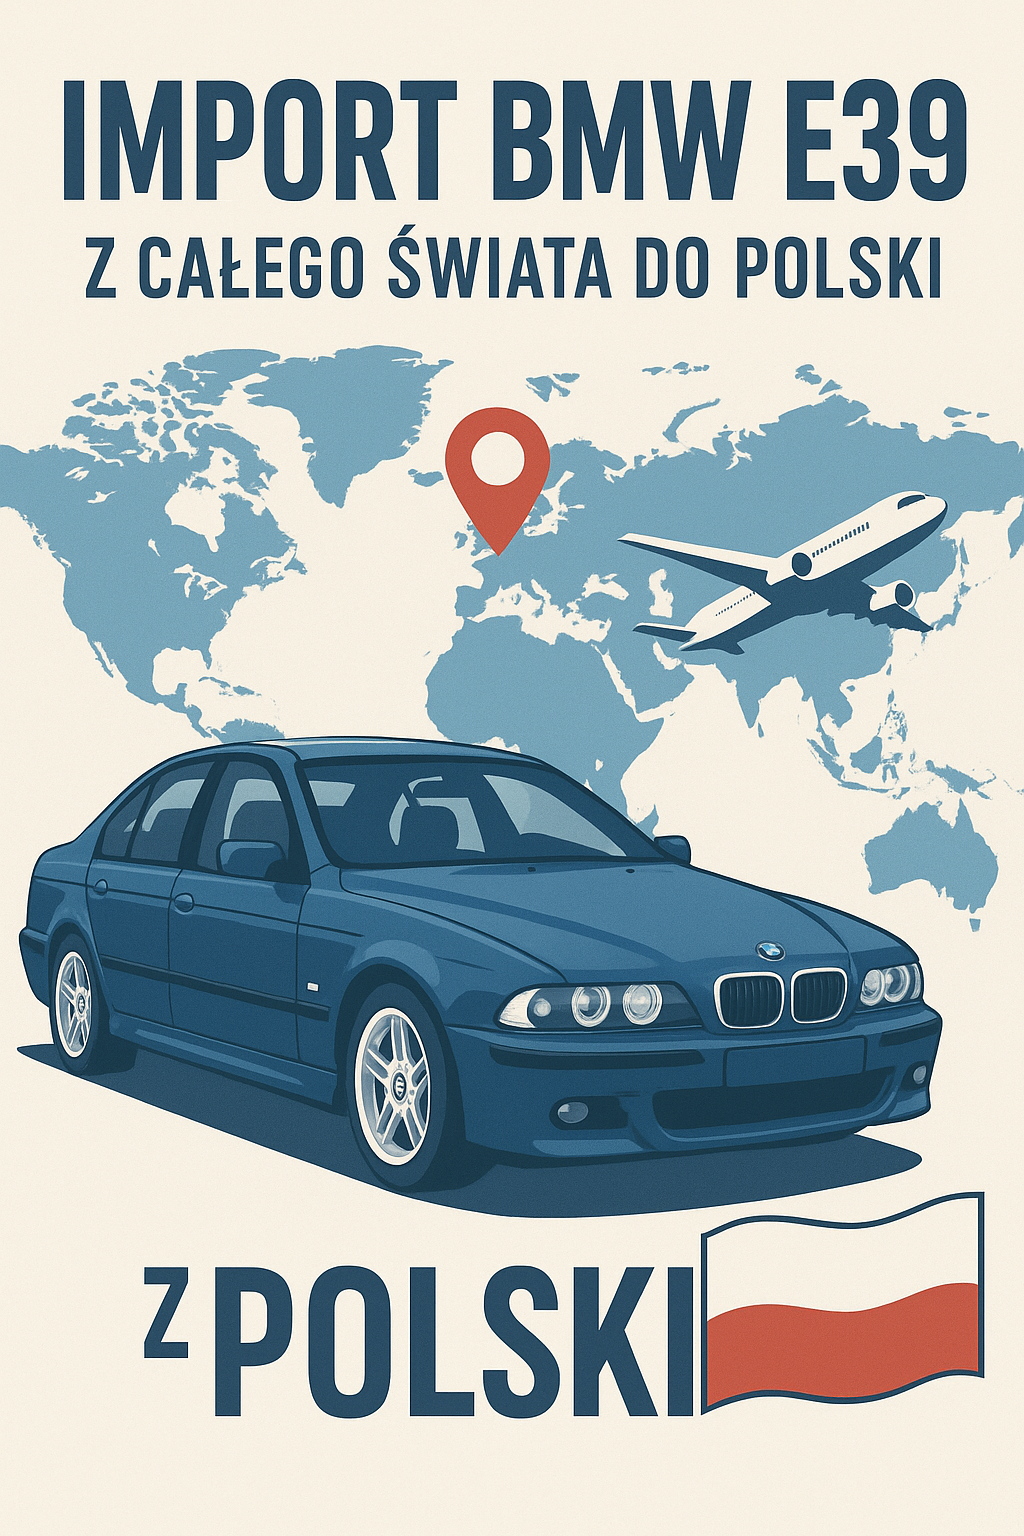
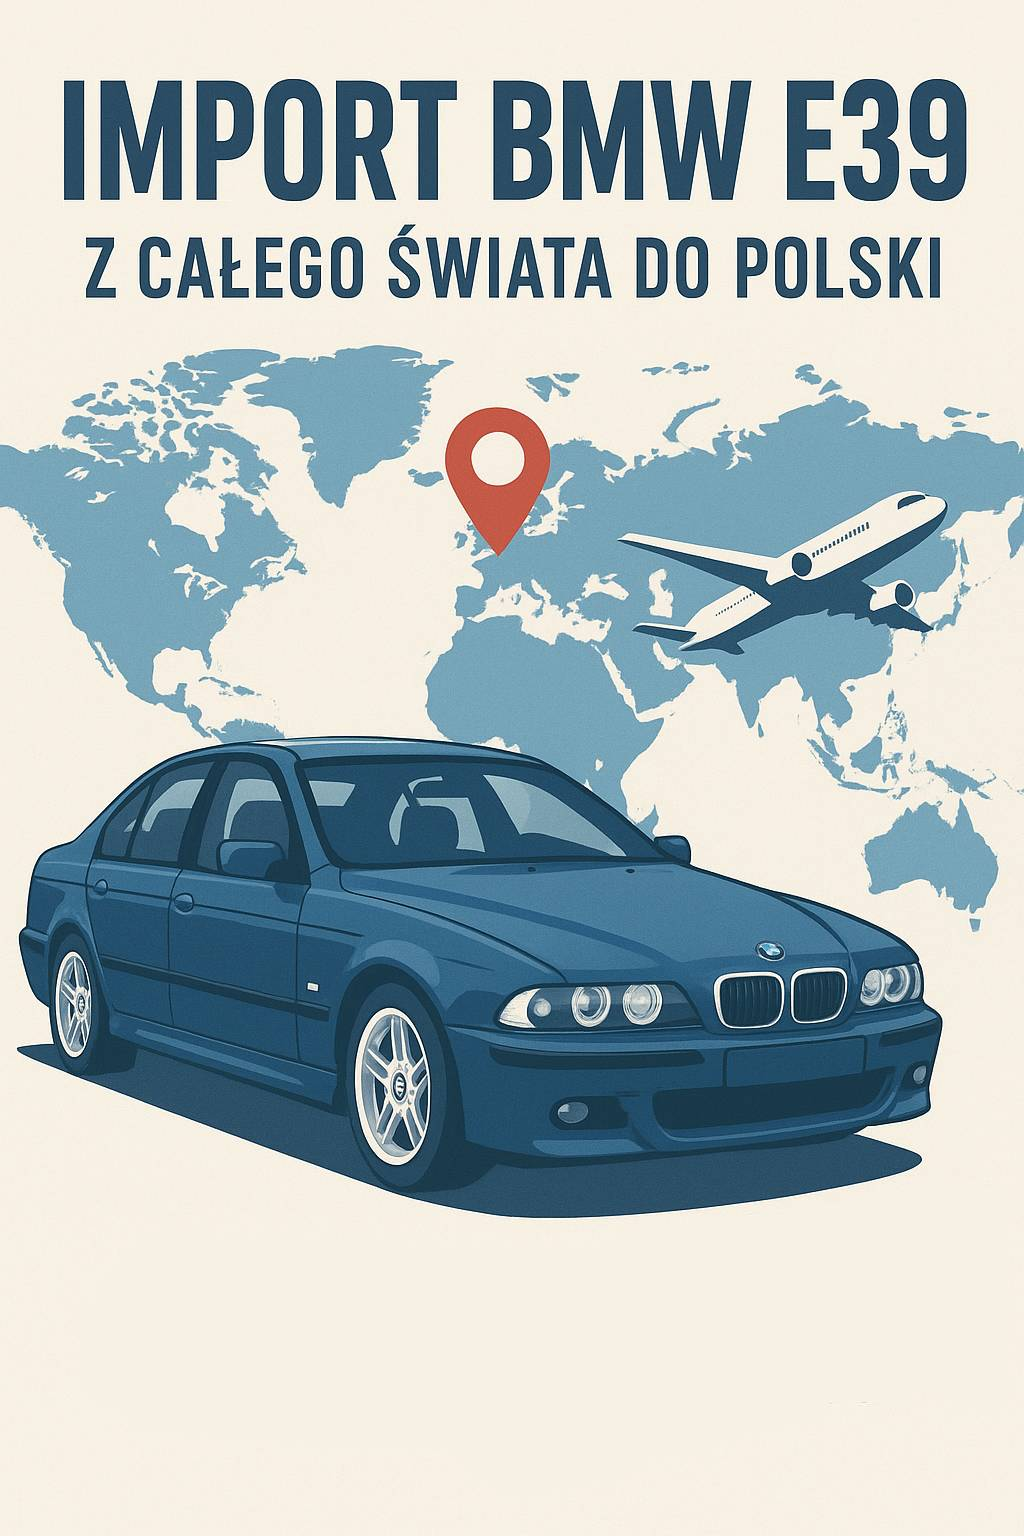
zmiana baneru oraz tytułu

diff --git a/index.html b/index.html
@@ -20,8 +20,8 @@
 				<!-- One -->
 					<section class="banner style1 orient-left content-align-left image-position-right fullscreen onload-image-fade-in onload-content-fade-right">
 						<div class="content">
-							<h1>Story</h1>
-							<p class="major">A (modular, highly tweakable) responsive one-page template designed by <a href="https://html5up.net">HTML5 UP</a> and released for free under the <a href="https://html5up.net/license">Creative Commons</a>.</p>
+							<h1>Rozpocznij z nami swoją historię z BMW E39</h1>
+							<p class="major"></a>.</p>
 							<ul class="actions stacked">
 								<li><a href="#first" class="button big wide smooth-scroll-middle">Get Started</a></li>
 							</ul>
